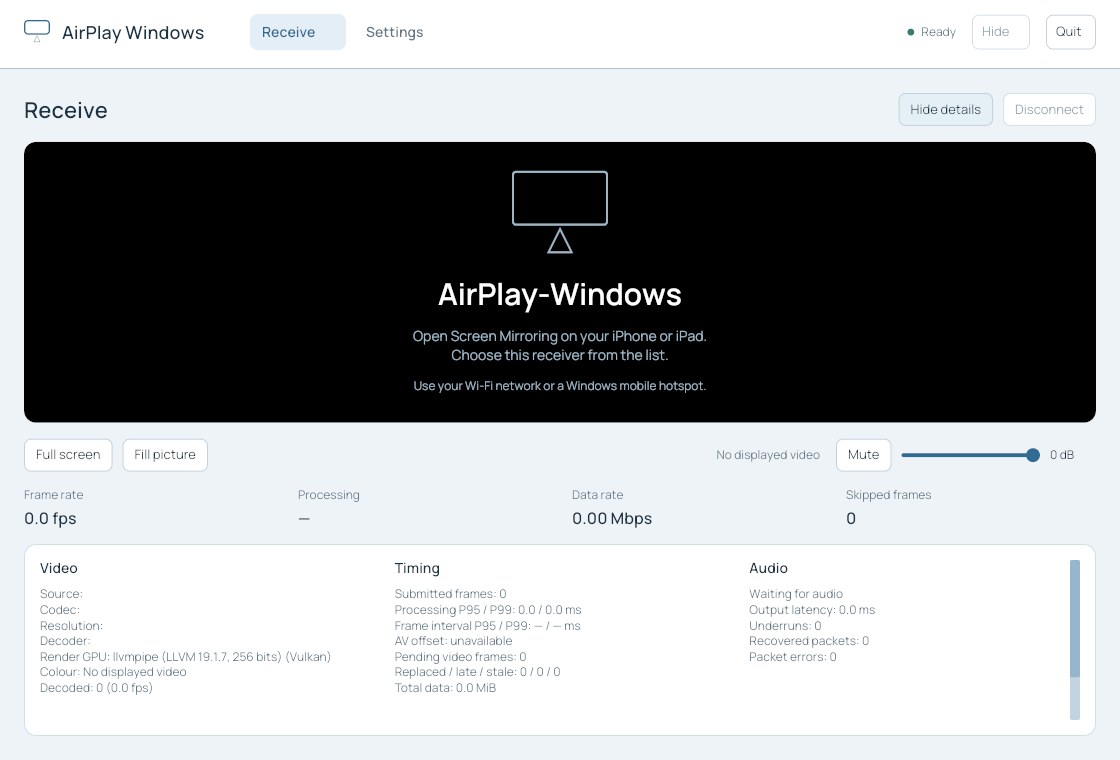
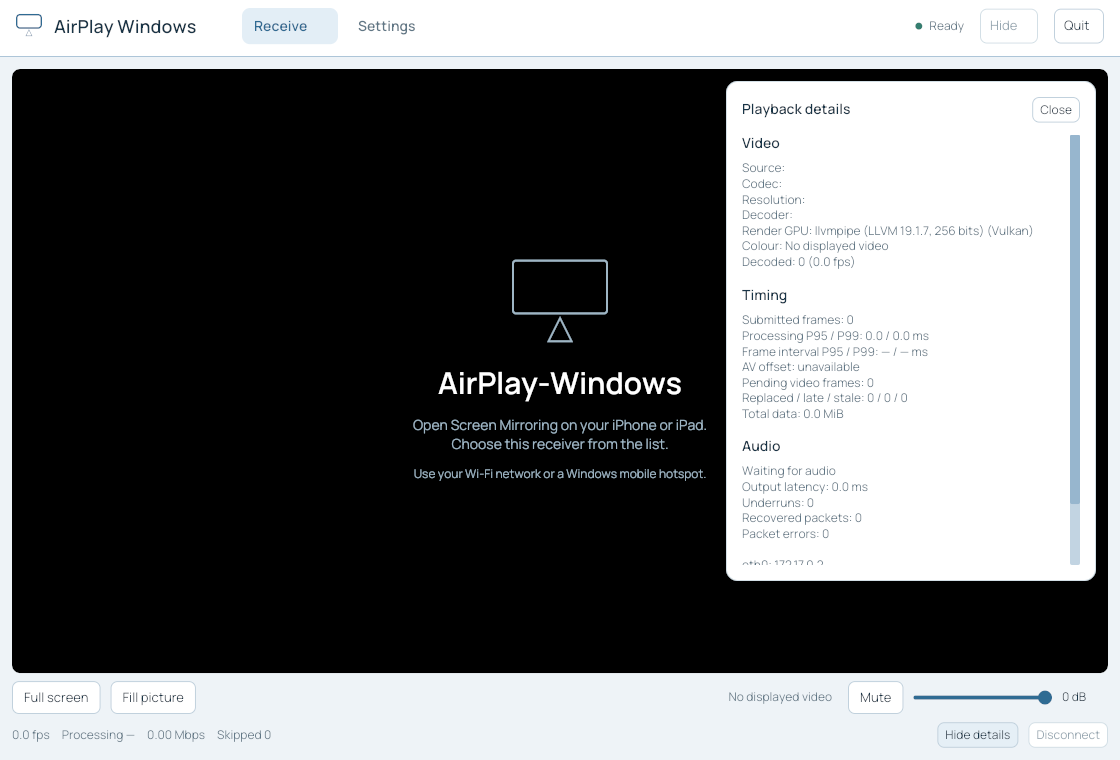
Give playback more space and keep diagnostics over the video

diff --git a/rust/src/desktop/view.rs b/rust/src/desktop/view.rs
@@ -155,8 +155,8 @@ impl App {
             .spacing(16)
             .align_y(iced::Alignment::Center),
         )
-        .padding([14, 24])
-        .height(68)
+        .padding([8, 16])
+        .height(56)
         .width(Length::Fill)
         .style(look::topbar)
         .into()
@@ -188,32 +188,6 @@ impl App {
             .metrics
             .receiver_view_builds
             .fetch_add(1, Ordering::Relaxed);
-        let title = if self.status.device.is_empty() {
-            "Receive".into()
-        } else {
-            self.status.device.clone()
-        };
-        let heading = row![
-            text(title).size(22).font(look::STRONG),
-            widget::space().width(Length::Fill),
-            button(
-                text(if self.diagnostics_expanded {
-                    "Hide details"
-                } else {
-                    "Playback details"
-                })
-                .size(13)
-            )
-            .padding([8, 12])
-            .style(look::secondary)
-            .on_press(Message::Diagnostics),
-            button(text("Disconnect").size(13))
-                .padding([8, 12])
-                .style(look::secondary)
-                .on_press_maybe((!self.status.peer.is_empty()).then_some(Message::Disconnect))
-        ]
-        .spacing(10)
-        .align_y(iced::Alignment::Center);
         let video = container(self.video_view())
             .width(Length::Fill)
             .height(Length::Fill)
@@ -221,56 +195,82 @@ impl App {
                 background: Some(iced::Color::BLACK.into()),
                 text_color: Some(iced::Color::WHITE),
                 border: iced::Border {
-                    radius: 12.into(),
+                    radius: 8.into(),
                     ..Default::default()
                 },
                 ..Default::default()
             });
-        let fps = stat("Frame rate", format!("{:.1} fps", self.stats.fps));
-        let processing = stat(
-            "Processing",
+        let mut stage = widget::stack![video]
+            .width(Length::Fill)
+            .height(Length::Fill);
+        if self.diagnostics_expanded {
+            let details = column![
+                row![text("Playback details").size(14).font(look::STRONG),
+                    widget::space().width(Length::Fill),
+                    button(text("Close").size(12)).padding([5,8]).style(look::secondary)
+                        .on_press(Message::Diagnostics)].align_y(iced::Alignment::Center),
+                scrollable(column![
+                    detail_group("Video", self.stats.video.clone()),
+                    detail_group("Timing", self.stats.timing.clone()),
+                    detail_group("Audio", self.stats.audio.clone()),
+                    text(self.stats.network.clone()).size(12).color(look::MUTED),
+                    text("FPS counts new video submissions. Processing excludes sender, network transit and physical screen latency.")
+                        .size(12).color(look::MUTED)
+                ].spacing(16)).height(Length::Fill)
+            ].spacing(12);
+            let panel = container(details)
+                .padding(16)
+                .width(370)
+                .height(Length::Fill)
+                .max_height(500)
+                .style(look::panel);
+            stage = stage.push(
+                container(row![widget::space().width(Length::Fill), panel])
+                    .padding(12)
+                    .width(Length::Fill)
+                    .height(Length::Fill),
+            );
+        }
+        let summary = text(format!(
+            "{:.1} fps     Processing {}     {:.2} Mbps     Skipped {}",
+            self.stats.fps,
             self.stats
                 .processing_ms
                 .map(|v| format!("{v:.1} ms"))
                 .unwrap_or_else(|| "—".into()),
-        );
+            self.stats.mbps,
+            self.stats.dropped
+        ))
+        .size(12)
+        .color(look::MUTED);
         let rail = row![
-            fps,
-            processing,
-            stat("Data rate", format!("{:.2} Mbps", self.stats.mbps)),
-            stat("Skipped frames", self.stats.dropped.to_string())
+            summary,
+            widget::space().width(Length::Fill),
+            button(
+                text(if self.diagnostics_expanded {
+                    "Hide details"
+                } else {
+                    "Details"
+                })
+                .size(12)
+            )
+            .padding([5, 8])
+            .style(look::secondary)
+            .on_press(Message::Diagnostics),
+            button(text("Disconnect").size(12))
+                .padding([5, 8])
+                .style(look::secondary)
+                .on_press_maybe((!self.status.peer.is_empty()).then_some(Message::Disconnect))
         ]
-        .spacing(24);
-        let mut layout = column![heading, video, self.player_controls(false), rail]
-            .spacing(16)
-            .padding(24)
+        .spacing(10)
+        .align_y(iced::Alignment::Center)
+        .height(26);
+        column![stage, self.player_controls(false), rail]
+            .spacing(8)
+            .padding(12)
             .width(Length::Fill)
-            .height(Length::Fill);
-        if self.diagnostics_expanded {
-            let details: Element<'static, Message, Theme, Renderer> = if self.viewport.width >= 950.
-            {
-                row![
-                    detail_group("Video", self.stats.video.clone()),
-                    detail_group("Timing", self.stats.timing.clone()),
-                    detail_group("Audio", self.stats.audio.clone())
-                ]
-                .spacing(24)
-                .into()
-            } else {
-                column![
-                    detail_group("Video", self.stats.video.clone()),
-                    detail_group("Timing", self.stats.timing.clone()),
-                    detail_group("Audio", self.stats.audio.clone())
-                ]
-                .spacing(18)
-                .into()
-            };
-            layout=layout.push(container(scrollable(column![details,
-                text(self.stats.network.clone()).size(12).color(look::MUTED),
-                text("Frame rate counts new video submissions. Processing excludes sender, network transit and physical screen latency.")
-                    .size(12).color(look::MUTED)].spacing(18)).height(160)).padding(16).width(Length::Fill).style(look::panel));
-        }
-        layout.into()
+            .height(Length::Fill)
+            .into()
     }
     fn settings_view(&self) -> Element<'_, Message, Theme, Renderer> {
         fn field<'a>(
@@ -443,7 +443,7 @@ impl App {
         let available = if presentation {
             (self.viewport.width - 32.).min(960.) - 28.
         } else {
-            self.viewport.width - 48.
+            self.viewport.width - 24.
         };
         let style = if presentation {
             look::player
@@ -562,12 +562,9 @@ impl App {
             .center(Length::Fill)
             .into();
         }
-        let compact = self.diagnostics_expanded && self.viewport.height < 700.;
         let audio = !self.status.peer.is_empty() && self.status.kind == "Audio";
         let mut content = column![].spacing(14).align_x(iced::Alignment::Center);
-        if compact {
-            // Keep the empty-state instructions inside the smaller diagnostic viewport.
-        } else if let Some(cover) = &self.cover {
+        if let Some(cover) = &self.cover {
             content = content.push(widget::image(cover.clone()).width(150).height(150));
         } else {
             content = content.push(receiver_mark(96., look::SCREEN_MUTED));
@@ -579,7 +576,7 @@ impl App {
                 self.form.saved.name.clone()
             })
             .font(look::STRONG)
-            .size(if compact { 22 } else { 30 })
+            .size(30)
             .color(iced::Color::WHITE),
         );
         if audio {
@@ -595,7 +592,7 @@ impl App {
         } else {
             content=content.push(text(if self.status.peer.is_empty(){"Open Screen Mirroring on your iPhone or iPad.\nChoose this receiver from the list."}
                 else{"Connected. Waiting for your device to send video."}).size(14).color(look::SCREEN_MUTED).align_x(iced::alignment::Horizontal::Center));
-            if self.status.peer.is_empty() && !compact {
+            if self.status.peer.is_empty() {
                 content = content.push(
                     text("Use your Wi-Fi network or a Windows mobile hotspot.")
                         .size(12)
@@ -603,20 +600,8 @@ impl App {
                 );
             }
         }
-        container(content)
-            .center(Length::Fill)
-            .padding(if compact { 12 } else { 24 })
-            .into()
+        container(content).center(Length::Fill).padding(24).into()
     }
-}
-fn stat(label: &'static str, value: String) -> Element<'static, Message, Theme, Renderer> {
-    column![
-        text(label).size(12).color(look::MUTED),
-        text(value).size(16).font(look::STRONG)
-    ]
-    .spacing(4)
-    .width(Length::Fill)
-    .into()
 }
 fn section_title<'a>(
     title: &'static str,

diff --git a/tools/rust_ui_smoke.py b/tools/rust_ui_smoke.py
@@ -62,7 +62,7 @@ def main():
                     xdo('mousemove', '--window', window, 402, y)
                     xdo('click', 1)
                 if page in ('details', 'narrow-details'):
-                    xdo('mousemove', '--window', window, 920, 109)
+                    xdo('mousemove', '--window', window, 970, 735)
                     xdo('click', 1)
                 if page in ['focus', 'fullscreen']:
                     xdo('key', 'ctrl+h' if page == 'focus' else 'F11')
@@ -81,7 +81,7 @@ def main():
                     xdo('windowsize', window, 960, 640)
                 if page == 'edit-settings':
                     time.sleep(.15)
-                    xdo('mousemove', '--window', window, 300, 260)
+                    xdo('mousemove', '--window', window, 300, 248)
                     xdo('click', 1)
                     xdo('key', 'ctrl+a')
                     xdo('type', '--clearmodifiers', '--delay', 0, 'Iced UI acceptance')
@@ -106,12 +106,15 @@ def main():
             image = Image.open(capture).convert('RGB')
             def ink(box):
                 # Count actual dark text against the light chrome, not pale backgrounds.
-                return sum(1 for rgb in image.crop(box).getdata() if max(rgb) < 150)
-            rail_y = height-64 if page == 'receiver' else height-272
-            assert ink((24, rail_y, width-24, rail_y+42)) > 300, 'Reception statistics were not painted'
-            assert ink((24, rail_y-48, 115, rail_y-16)) > 70, 'Player button text disappeared'
+                return sum(1 for rgb in image.crop(box).getdata() if max(rgb) < 180)
+            rail_y = height-38
+            assert ink((12, rail_y, width-12, rail_y+26)) > 300, 'Reception statistics were not painted'
+            assert ink((12, rail_y-40, 115, rail_y-8)) > 70, 'Player button text disappeared'
             if page != 'receiver':
-                assert ink((40, height-205, width-40, height-45)) > (150 if page == 'narrow-details' else 500), 'Inline diagnostic text was not painted'
+                assert ink((width-378, 145, width-48, min(height-110, 550))) > 500, 'Inline diagnostic text was not painted'
+            if width >= 1000:
+                stage=image.crop((350,200,710,530))
+                assert sum(1 for rgb in stage.getdata() if min(rgb)>150)>1000, 'Capture lost the underlying player layer'
         captures[page] = {'width': width, 'height': height, 'sha256': hashlib.sha256(png).hexdigest(),
                           'viewport_sha256': hashlib.sha256(viewport).hexdigest()}
         if page == 'edit-settings':
@@ -125,6 +128,12 @@ def main():
             assert saved['name']=='AirPlay-Windows' and saved['vsync'] is False
             if page=='resize': assert (saved['window_width'],saved['window_height'])==(960,640),saved
             if page.startswith('fullscreen'): assert saved['fullscreen'] is True,saved
+    for page in ('receiver', 'details', 'narrow-details'):
+        with Image.open(output/(page+'.png')) as im:
+            # Details overlays the stage: it never changes the video allocation.
+            rgb=im.convert('RGB')
+            black_rows=[y for y in range(im.height) if max(rgb.getpixel((24,y)))<5]
+            assert min(black_rows)==69 and max(black_rows)>=im.height-90, (page,black_rows)
     assert captures['fullscreen']['width'] > captures['receiver']['width']
     assert captures['fullscreen-settings']['width'] == captures['fullscreen']['width']
     assert captures['resize']['width'] == 960

diff --git a/rust/src/desktop.rs b/rust/src/desktop.rs
@@ -251,6 +251,7 @@ enum Message {
     StartHidden(bool),
     Volume(f32),
     Devices(Result<Vec<crate::audio::DeviceChoice>, String>),
+    Capture(window::Id),
     Screenshot(window::Screenshot),
     #[cfg(windows)]
     Tray(crate::platform::tray::Command),
@@ -734,7 +735,12 @@ impl App {
                     && let Some(id) = self.window
                 {
                     self.last_capture = true;
-                    return window::screenshot(id).map(Message::Screenshot);
+                    // Let this tick's rebuilt layout reach the renderer first.
+                    // A same-update capture can consume the previous layer batch.
+                    return Task::future(async move {
+                        tokio::time::sleep(Duration::from_millis(100)).await;
+                        Message::Capture(id)
+                    });
                 }
                 if let Some(task) = self.reveal_video() {
                     return task;
@@ -1117,6 +1123,11 @@ impl App {
                 self.client.shared.ui.lock().unwrap().volume_db = db;
                 self.status.volume_db = db;
                 self.controls_used = Instant::now();
+            }
+            Message::Capture(id) => {
+                if self.window == Some(id) {
+                    return window::screenshot(id).map(Message::Screenshot);
+                }
             }
             Message::Screenshot(capture) => {
                 if let Some(path) = &self.args.screenshot

diff --git a/tools/rust_preferences_ui.py b/tools/rust_preferences_ui.py
@@ -60,13 +60,13 @@ def main():
     try:
         process,window=launch('initial')
         click(window,402,34)
-        edit(window,300,260,'Unsaved receiver draft')
+        edit(window,300,248,'Unsaved receiver draft')
         assert settings.read_bytes()==original
         # Wide settings places output selection beside receiver fields.
         ImageGrab.grab(xdisplay='').save(output/'audio-scrolled.png')
-        click(window,800,237)
+        click(window,800,225)
         ImageGrab.grab(xdisplay='').save(output/'audio-menu.png')
-        click(window,800,295)
+        click(window,800,283)
         until(lambda:stored().get('audio_device','default')!='default')
         selected=stored()['audio_device'];assert stored()['name']=='AirPlay-Windows'
         report['immediate_audio_preserves_unsaved_draft']='passed'
@@ -78,11 +78,11 @@ def main():
         process,window=launch('restart')
         assert geometry(window)=={'WIDTH':960,'HEIGHT':640}
         click(window,402,34)
-        edit(window,300,260,'Saved receiver')
+        edit(window,300,248,'Saved receiver')
         click(window,85,597)
         until(lambda:stored().get('name')=='Saved receiver')
         before=settings.read_bytes()
-        edit(window,140,335,'invalid')
+        edit(window,140,323,'invalid')
         click(window,85,597)
         assert settings.read_bytes()==before, 'Invalid form was partly applied'
         ImageGrab.grab(xdisplay='').save(output/'invalid-width.png')

diff --git a/docs/RUST_ARCHITECTURE.md b/docs/RUST_ARCHITECTURE.md
@@ -114,7 +114,9 @@ bounded device reconstruction after device loss. Surface reconfiguration is
 separate from device reconstruction. Hidden startup obtains the primary monitor's adapter before decoding starts.
 D3D11VA attempts the DXGI adapter matching
 the render PCI vendor/device identity; NVDEC/CPU remain decode fallbacks. This
-is best-effort adapter matching, not a native GPU frame sharing interface. Software GPU adapters remain distinguishable
+is best-effort adapter matching at device creation, not a native GPU frame sharing
+interface. Moving the window to another GPU's monitor does not migrate a live
+device; restarting reselects the adapter. Software GPU adapters remain distinguishable
 from hardware. If GPU initialization fails, the software UI remains available
 with a clear video-support message; software UI does not secretly render the YUV
 primitive. Driver failures and cross-adapter cost still require physical Windows
@@ -159,8 +161,8 @@ historical GPL C++/test references are excluded from runtime linkage.
 ## Desktop presentation
 
 The Receive page gives the video most of the window, with a compact top navigation
-and a flat live statistics rail. Detailed video, clock, audio and transport status
-expand within Receive. Settings uses one scrollable form, two columns on wide
+and a compact one-line live statistics strip. Detailed video, clock, audio and transport status
+open over the video without shrinking its viewport. Settings uses one scrollable form, two columns on wide
 windows and one on narrow windows. `desktop/view.rs` owns layout;
 `desktop/appearance.rs` owns visual tokens/styles; `desktop/form.rs` owns drafts
 and validation. The UI does not animate while idle. Status is cloned on revision

diff --git a/docs/RUST_MIGRATION_REPORT.md b/docs/RUST_MIGRATION_REPORT.md
@@ -55,8 +55,10 @@ not physical display FPS or C++/Slint performance parity measurements.
 
 The desktop now uses a compact top navigation, a black playback stage, Manrope
 Regular/SemiBold and a quiet steel-blue shell. Receive includes live new-submission
-FPS, internal processing time, bandwidth and skipped frames. Video, timing, audio
-and transport diagnostics expand in the same page. Settings adapts from two
+FPS, internal processing time, bandwidth and skipped frames in one small line.
+At 1120 × 760, the playback stage uses about 80% of the window height; diagnostic
+expansion leaves that allocation unchanged. Video, timing, audio
+and transport diagnostics open over the video without reducing its size. Settings adapts from two
 columns to one; video-only fullscreen and automatically hidden controls remain.
 Layout/styles are separate from desktop lifecycle. No idle animation was added.
 
